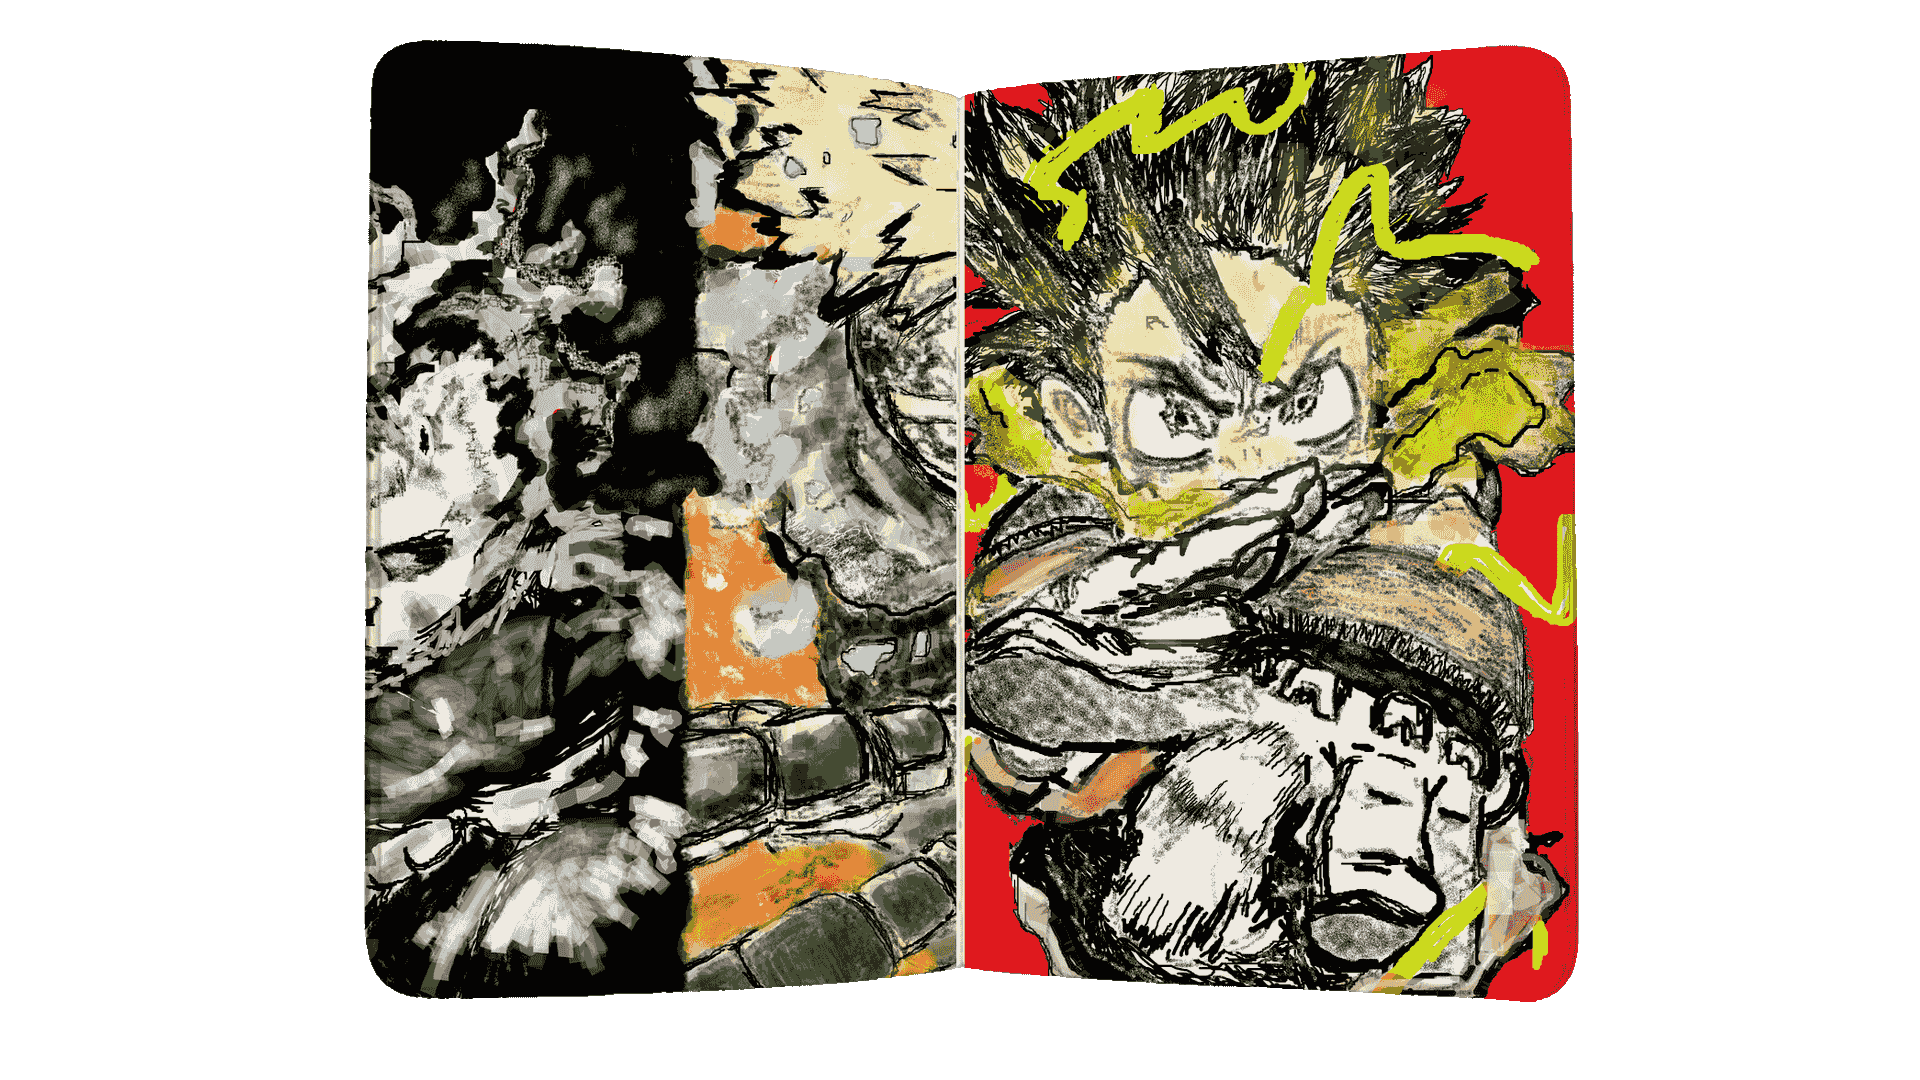
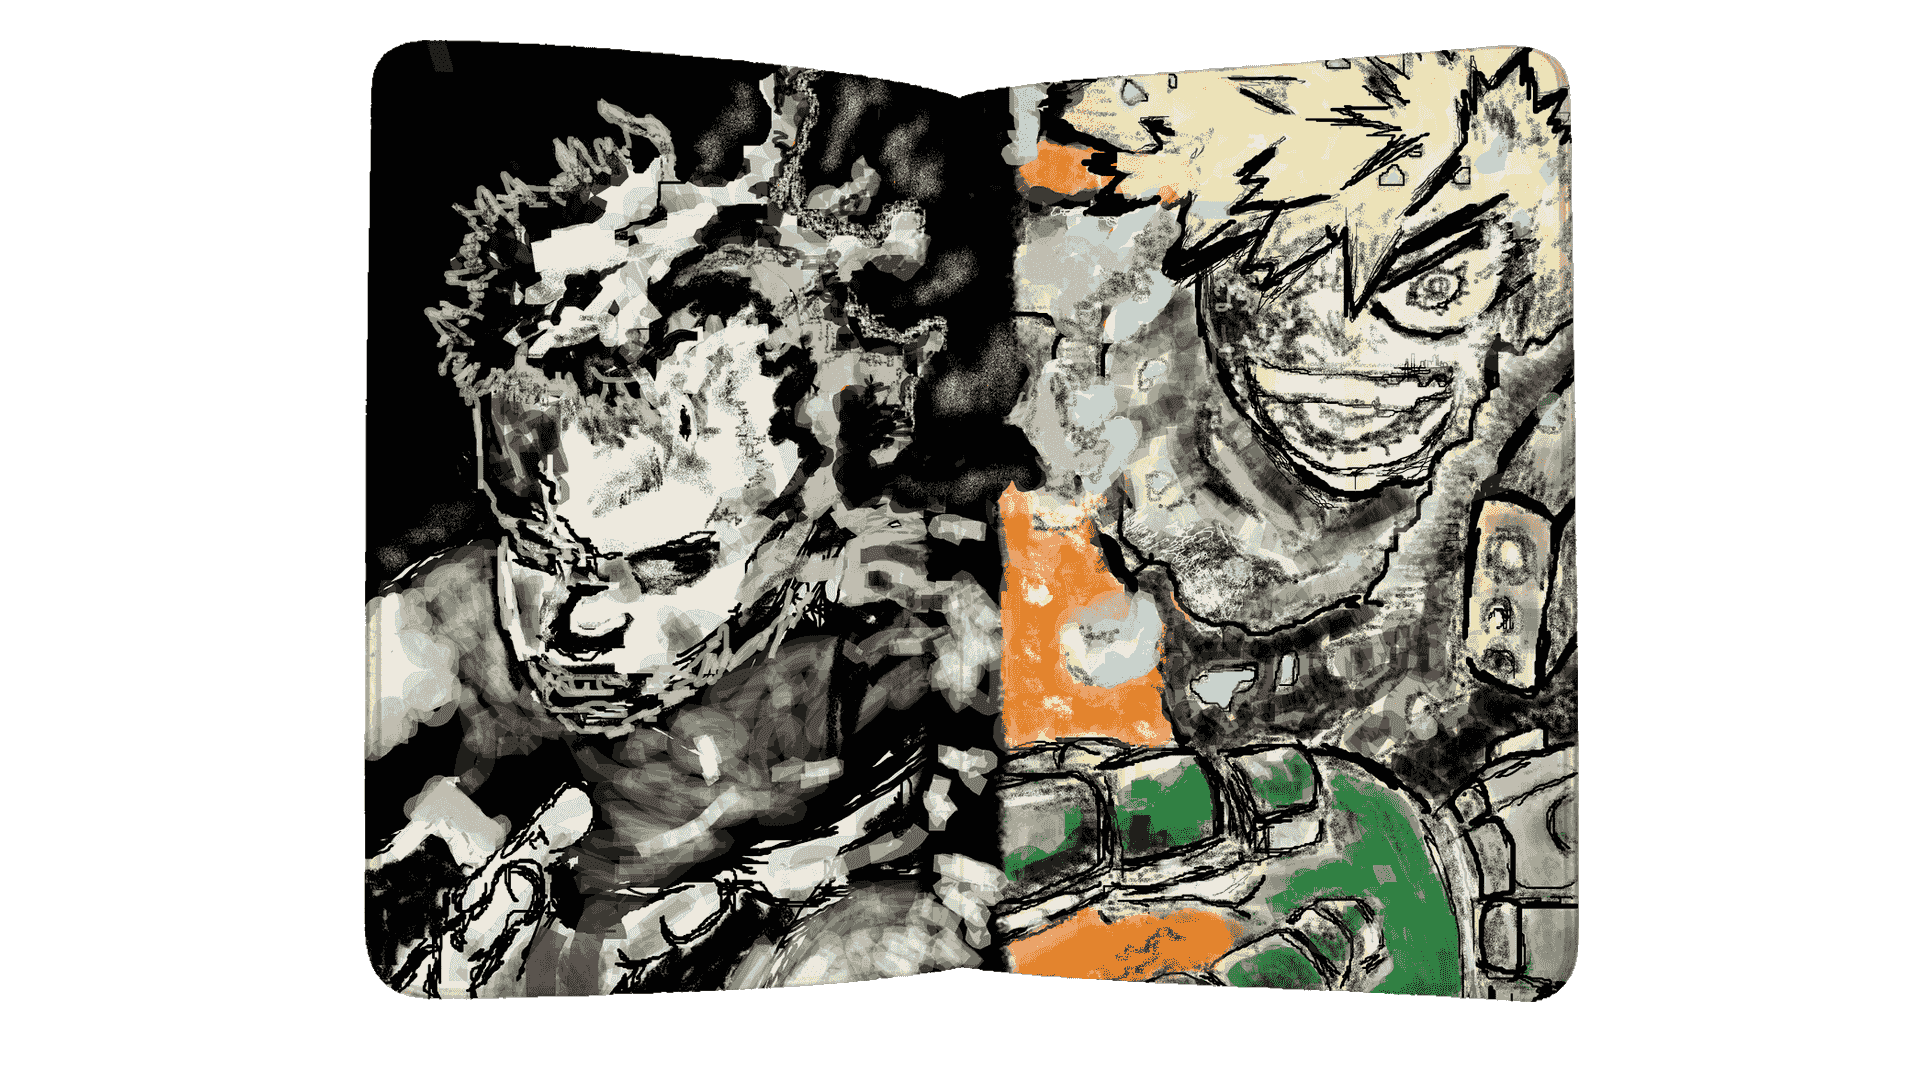
feat: Update content and improve descriptions across multiple journey entries

diff --git a/content/content.ts b/content/content.ts
@@ -84,17 +84,17 @@ const mounted = (file: string, title: string, flags?: SketchFlags): SketchPage =
 export const sketchbook: SketchPage[] = [
   mounted("i want to live", "\"I want to live!\""),
   mounted("助けて", "\"助けて\""),
-  mounted("eustass", "Laguna"),
-  mounted("i am proud of you", "\n I will make you proud \n"),
-  mounted("sasuke", " This is the last time "),
+  mounted("eustass", "Damned Punk!"),
+  mounted("i am proud of you", "You reap what you sow!"),
+  mounted("sasuke", "This is the last time"),
   mounted("konan", "Konan - Itachi"),
   mounted("kisame", "Kisame - Sasori"),
-  mounted("notes", "\" I will never forget you\""),
+  mounted("notes", "\"I will never forget you\""),
   mounted("kimono", "Diwata"),
   mounted("megumi", "Megumi"),
   mounted("fly", "To Pimp A Caterpillar"),
-  mounted("prisoner of the mind", "Prisoner Of The Mind"),
-  mounted("bakugo", "Bakugo - Deku"),
+  mounted("prisoner of the mind", "Prisoner of The Mind"),
+  mounted("bakugo", "Last fight"),
   mounted("thinking of the blue sky", "青い空が好きです", { home: true }),
 ];
 

diff --git a/content/it/about.md b/content/it/about.md
@@ -2,7 +2,6 @@
 eyebrow: "SOFTWARE ARCHITECT / ARTISTA / JACK OF ALL TRADES"
 ---
 
-Mark è un software architect con base a Milano.
-Spinto dalla passione per la creazione, unisce la logica tecnica all’espressione artistica. Ex working student con una solida esperienza pratica in diversi ambiti, porta in tutto ciò che fa disciplina, capacità di adattamento e una resilienza discreta ma profonda.
+Mark è un software architect residente a Milano.
+Spinto dalla passione per la creazione, unisce la logica tecnica all’espressione artistica. Ex working student con una solida esperienza pratica in diversi ambiti, porta in tutto ciò che fa disciplina, capacità di adattamento e resilienza.
 Fuori dal lavoro, lo trovi a correre o immerso in qualche progetto artistico.
- di anime.

diff --git a/content/it/journey/33-marb.md b/content/it/journey/33-marb.md
@@ -6,6 +6,6 @@ place: "MARB Srl"
 span: "2020 - 2021"
 ---
 
-Ho prelevato e imballato gli ordini per la spedizione, garantendo precisione
-ed efficienza nel processo di evasione. Ho sviluppato solide capacità
-organizzative e di gestione del tempo in un ambiente dai ritmi serrati.
+Ho lavorato in un magazzino alimentare durante il periodo di COVID, un periodo di grande richiesta per tutti i supermercati, mi sono occupato
+di preparare i bancali con i prodotti richiesti utilizzando il muletto, con orari molto flessibili e la distanza del posto di lavoro
+ho imparato a dare valore al tempo sviluppando grande capacità organizzative.

diff --git a/content/en/journey/31-nespresso.md b/content/en/journey/31-nespresso.md
@@ -6,7 +6,6 @@ place: "Nespresso"
 span: "2022 - 2023"
 ---
 
-Provided customer support and assistance for clients calling in, ensuring
-their needs were met and issues resolved promptly. Developed strong
-communication and problem-solving skills while maintaining a high level of
-customer satisfaction.
+Provided customer support and assistance to clients through inbound and outbound calls, handling order status inquiries, promoting new products, and troubleshooting issues with damaged machines.
+
+Developed strong communication and problem-solving skills while working in an English-speaking environment.

diff --git a/content/en/journey/30-jollibee.md b/content/en/journey/30-jollibee.md
@@ -7,6 +7,5 @@ span: "during studies"
 note: "Best in Production, 2024 · Crew Member of the Month, September 2024"
 ---
 
-Prepared food to standard as part of the production team while studying
-full-time, holding quality and speed together through daily service and
-keeping to operational standards under the pace of a busy kitchen.
+Prepared food to standard as part of the production team, holding quality and speed together through daily service and
+keeping to operational standards under the pace of a busy kitchen being a full-time student, making me the crew of the month and best in production 2024.

diff --git a/content/it/journey/30-jollibee.md b/content/it/journey/30-jollibee.md
@@ -7,7 +7,6 @@ span: "durante gli studi"
 note: "Best in Production, 2024 · Crew Member of the Month, settembre 2024"
 ---
 
-Ho preparato i piatti secondo gli standard come parte del team di produzione
-mentre studiavo a tempo pieno, tenendo insieme qualità e velocità nel
-servizio quotidiano e rispettando gli standard operativi al ritmo di una
-cucina affollata.
+Ho preparato i piatti secondo gli standard come parte del team di produzione, tenendo insieme qualità e velocità nel
+servizio quotidiano e rispettando gli standard aggiudicandomi il titolo del miglior dipendente in cucina nel 2024.
+

diff --git a/content/it/journey/32-burger-king.md b/content/it/journey/32-burger-king.md
@@ -5,8 +5,5 @@ subtitle: "Servizio al cliente e preparazione dei piatti"
 place: "Burger King"
 span: "2021 - 2022"
 ---
-
-Ho offerto un servizio al cliente di alto livello e collaborato alla
-preparazione dei piatti, garantendo un'esperienza piacevole a chi veniva a
-mangiare. Ho sviluppato capacità di lavoro in squadra e di gestione del tempo
-in un ambiente dai ritmi serrati.
+Membro dello staff, responsabile delle attività in cucina, preparazione ingredienti,
+del lavaggio delle stoviglie e delle operazioni di apertura e chiusura per il magazzino.

diff --git a/content/en/journey/10-selexi.md b/content/en/journey/10-selexi.md
@@ -6,6 +6,5 @@ place: "Selexi"
 span: "present"
 ---
 
-Developed key features to streamline production workflows and accelerate
-testing. Engineered, tested, and documented system functionalities to ensure
-high reliability while enhancing WCAG compliance and platform accessibility.
+Developed key features to streamline production workflows and accelerate the creation of the online testing. 
+Engineered, tested, and documented system functionalities to ensure reliability while enhancing WCAG compliance and platform accessibility.

diff --git a/content/it/journey/31-nespresso.md b/content/it/journey/31-nespresso.md
@@ -6,7 +6,6 @@ place: "Nespresso"
 span: "2022 - 2023"
 ---
 
-Ho fornito supporto e assistenza ai clienti che chiamavano, assicurandomi che
-le loro esigenze fossero soddisfatte e i problemi risolti in tempi rapidi. Ho
-sviluppato solide capacità comunicative e di problem solving, mantenendo un
-alto livello di soddisfazione del cliente.
+Ho fornito supporto e assistenza ai clienti attraverso chiamate in entrata/uscita: troubleshooting delle macchine guaste di caffè,
+ordini di capsule e offerta di prodotti Nespresso.
+

diff --git a/content/it/journey/10-selexi.md b/content/it/journey/10-selexi.md
@@ -6,7 +6,8 @@ place: "Selexi"
 span: "in corso"
 ---
 
-Ho sviluppato funzionalità chiave per snellire i flussi di produzione e
-accelerare i test. Ho progettato, testato e documentato le funzionalità di
+Ho sviluppato funzionalità chiave per facilitare i flussi di produzione e
+accelerare la produzione di test, creando nuovi feature. 
+Ho progettato, testato e documentato le funzionalità di
 sistema per garantirne l'affidabilità, migliorando al tempo stesso la
 conformità WCAG e l'accessibilità della piattaforma.

diff --git a/content/it/journey/_chapters.md b/content/it/journey/_chapters.md
@@ -1,5 +1,5 @@
 ---
-lede: "Custodisco i momenti e le persone che incontro: allargano la mia anima, e questo è il mio percorso."
+lede: "Non si tratta di avere la capacità di fare qualcosa. Si tratta di avere la volontà, il desiderio e l’impegno necessari per dare il meglio di sé"
 # L'ordine dei capitoli è l'ordine di questa lista. Il lavoro viene prima
 # degli studi: la pagina è letta da chi assume per un ruolo software, e la
 # prima cosa che cerca è il lavoro. `lead: place` mette l'azienda nel corpo

diff --git a/content/en/journey/_chapters.md b/content/en/journey/_chapters.md
@@ -1,5 +1,5 @@
 ---
-lede: "I treasure moments and people I encounter, they expand my soul and this is my journey."
+lede: "It’s not about having the skill to do something. It’s about having the will, desire and commitment to be your best."
 # Chapter order is the order of this list. Work comes before the studies: the
 # page is read by people hiring for a software role, and the first thing they
 # look for is the work. `lead: place` sets the company in the large type
